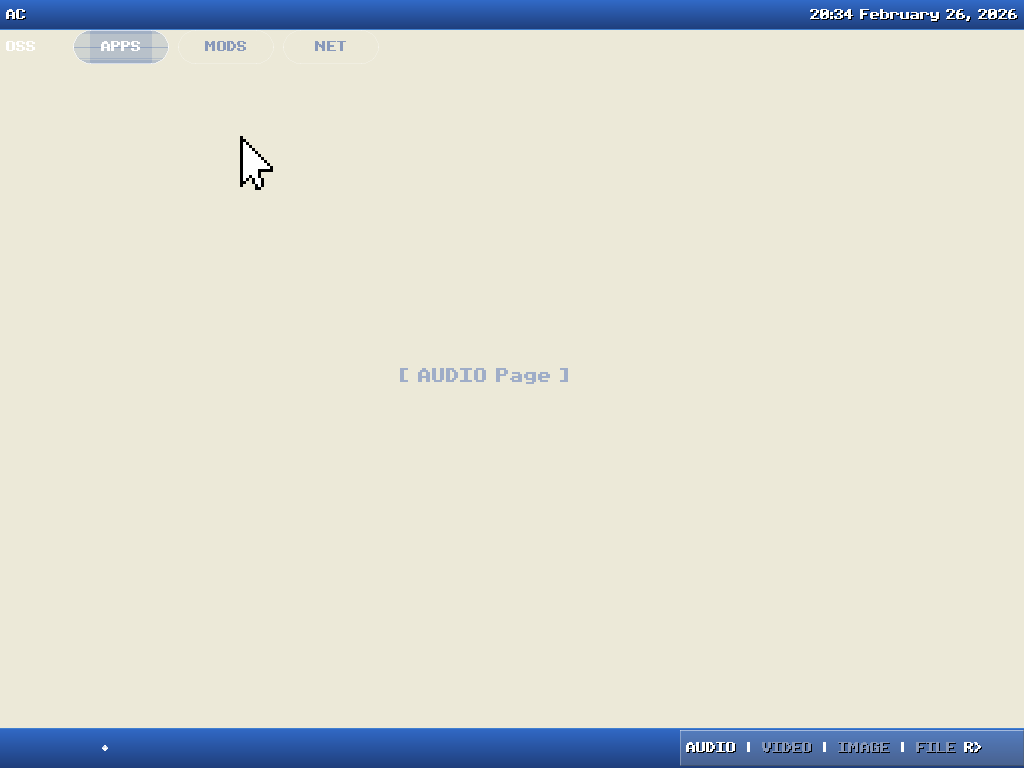
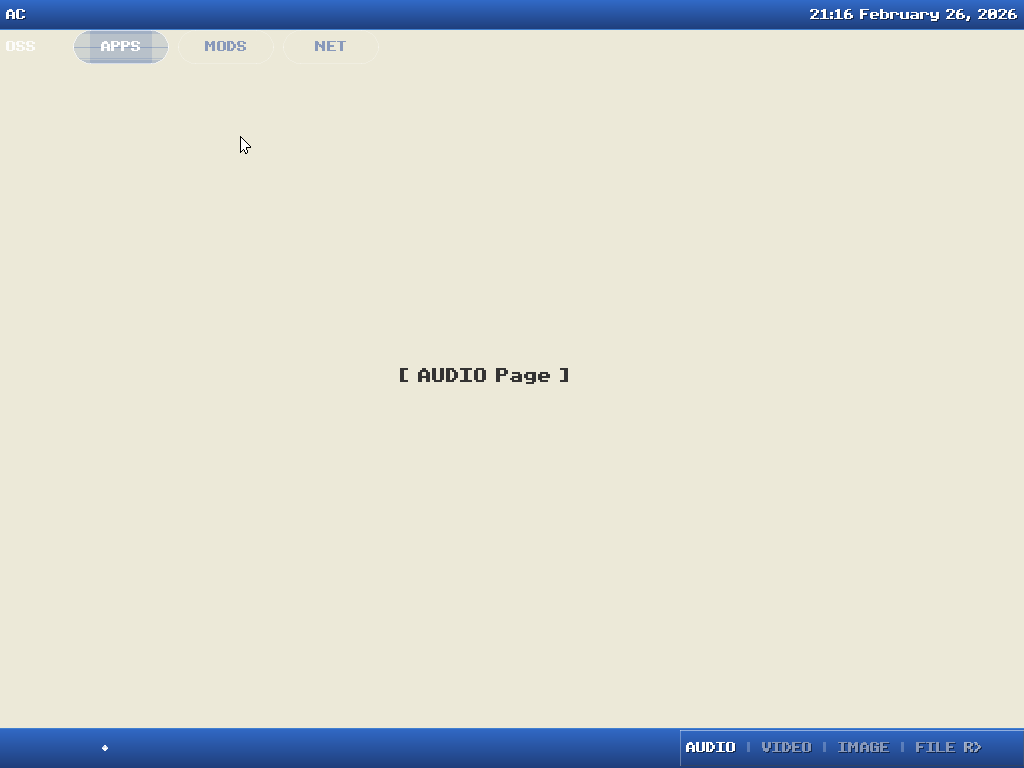
fix: terminal prompt z-ordering, XP text contrast, and screenshot polish
- Add z field to skin layout loader so skins can control draw order
- Set terminal_bg to z=-1 in all terminal skins, fixing prompt text
  hidden by HashMap-ordered background rectangle
- Add terminal_output_color (#000000) and terminal_prompt_color
  (#003399) to XP skin for readable text on cream content_bg
- Update desktop clock_display with real time in screenshot tool
- Clean up stale file manager text objects on window close
- Update affected screenshots

diff --git a/crates/oasis-app/src/screenshot.rs b/crates/oasis-app/src/screenshot.rs
@@ -139,6 +139,14 @@ fn capture_skin(skin_name: &str) -> anyhow::Result<()> {
     let power = platform.power_info().ok();
     status_bar.update_info(time.as_ref(), power.as_ref());
 
+    // Update desktop clock_display if the skin defines one.
+    if let Some(ref t) = time {
+        let clock_str = format!("{:02}:{:02}", t.hour, t.minute);
+        if let Ok(obj) = sdi.get_mut("clock_display") {
+            obj.text = Some(clock_str);
+        }
+    }
+
     // Create skin-specific output directory.
     let out_dir = Path::new("screenshots").join(skin_name);
     fs::create_dir_all(&out_dir)?;
@@ -266,6 +274,10 @@ fn capture_skin(skin_name: &str) -> anyhow::Result<()> {
         }
     } else if let Some(ref mut wm) = wm {
         let _ = wm.close_window("demo_files", &mut sdi);
+        // Clean up manually-created content text objects.
+        for i in 0..20 {
+            let _ = sdi.destroy(&format!("demo_files_line_{i}"));
+        }
     }
     mouse_cursor.update_sdi(&mut sdi);
     render_and_save(

diff --git a/crates/oasis-skin/src/builtin.rs b/crates/oasis-skin/src/builtin.rs
@@ -26,6 +26,7 @@ x = 0
 y = 0
 w = 480
 h = 272
+z = -1
 color = "#000000"
 
 [terminal_output]
@@ -125,6 +126,7 @@ x = 0
 y = 17
 w = 480
 h = 255
+z = -1
 color = "#0A0A0A"
 
 [terminal_output]
@@ -230,6 +232,7 @@ x = 0
 y = 0
 w = 480
 h = 272
+z = -1
 color = "#050005"
 
 [glitch_overlay]
@@ -695,6 +698,10 @@ font_heading = 16
 cursor_blink_rate = 25
 
 [app_overrides]
+text_color = "#333333"
+dim_text = "#666666"
+terminal_output_color = "#000000"
+terminal_prompt_color = "#003399"
 selection_accent_color = "#0054E380"
 selection_border_radius = 2
 
@@ -874,6 +881,7 @@ x = 0
 y = 117
 w = 480
 h = 155
+z = -1
 color = "#060D15"
 border_radius = 4
 

diff --git a/crates/oasis-skin/src/loader.rs b/crates/oasis-skin/src/loader.rs
@@ -52,6 +52,7 @@ pub struct SkinObjectDef {
     pub font_size: Option<u16>,
     pub alpha: Option<u8>,
     pub visible: Option<bool>,
+    pub z: Option<i32>,
     // Extended visual properties.
     #[serde(default)]
     pub border_radius: Option<u16>,
@@ -303,6 +304,9 @@ impl Skin {
                 }
                 if let Some(v) = def.visible {
                     obj.visible = v;
+                }
+                if let Some(z) = def.z {
+                    obj.z = z;
                 }
                 if let Some(ref t) = def.text {
                     obj.text = Some(t.clone());
